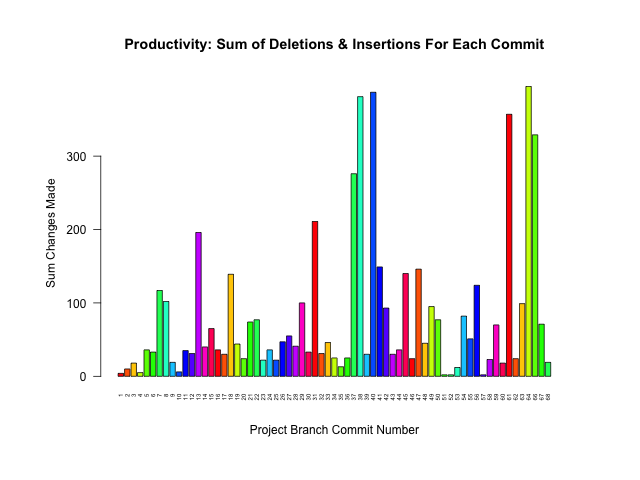
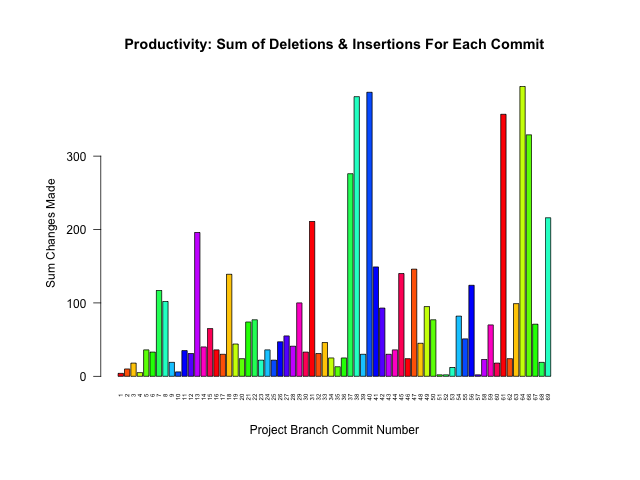
COMMIT #238

Changed region(s): [[0.1875, 0.1562, 0.875, 0.8438]]

diff --git a/README.md b/README.md
@@ -17,9 +17,9 @@ ProjectName::BranchName.data
 
 Project Name | Last Updated | # Commits | # Branches | Branches Merged
 :---|:---:|:---:|:---:|:---:
-[commit_tracker](https://github.com/pierremigeon/commit_tracker)                                    |  2023-07-10  |  236  |  1  |  100%  (1/1)
+[learn_some_C.Plus.Plus](https://github.com/pierremigeon/learn_some_C.Plus.Plus)                    |  2023-07-11  |  69   |  1  |  100%  (1/1)
+[commit_tracker](https://github.com/pierremigeon/commit_tracker)                                    |  2023-07-10  |  237  |  1  |  100%  (1/1)
 [Algorithms_practice](https://github.com/pierremigeon/Algorithms_practice)                          |  2023-07-10  |  11   |  4  |  75%   (3/4)
-[learn_some_C.Plus.Plus](https://github.com/pierremigeon/learn_some_C.Plus.Plus)                    |  2023-07-08  |  68   |  1  |  100%  (1/1)
 [libft](https://github.com/pierremigeon/libft)                                                      |  2023-06-05  |  30   |  2  |  50%   (1/2)
 [ft_printf](https://github.com/pierremigeon/ft_printf)                                              |  2023-06-01  |  37   |  2  |  100%  (2/2)
 [minishell](https://github.com/pierremigeon/minishell)                                              |  2023-05-20  |  78   |  8  |  88%   (7/8)
